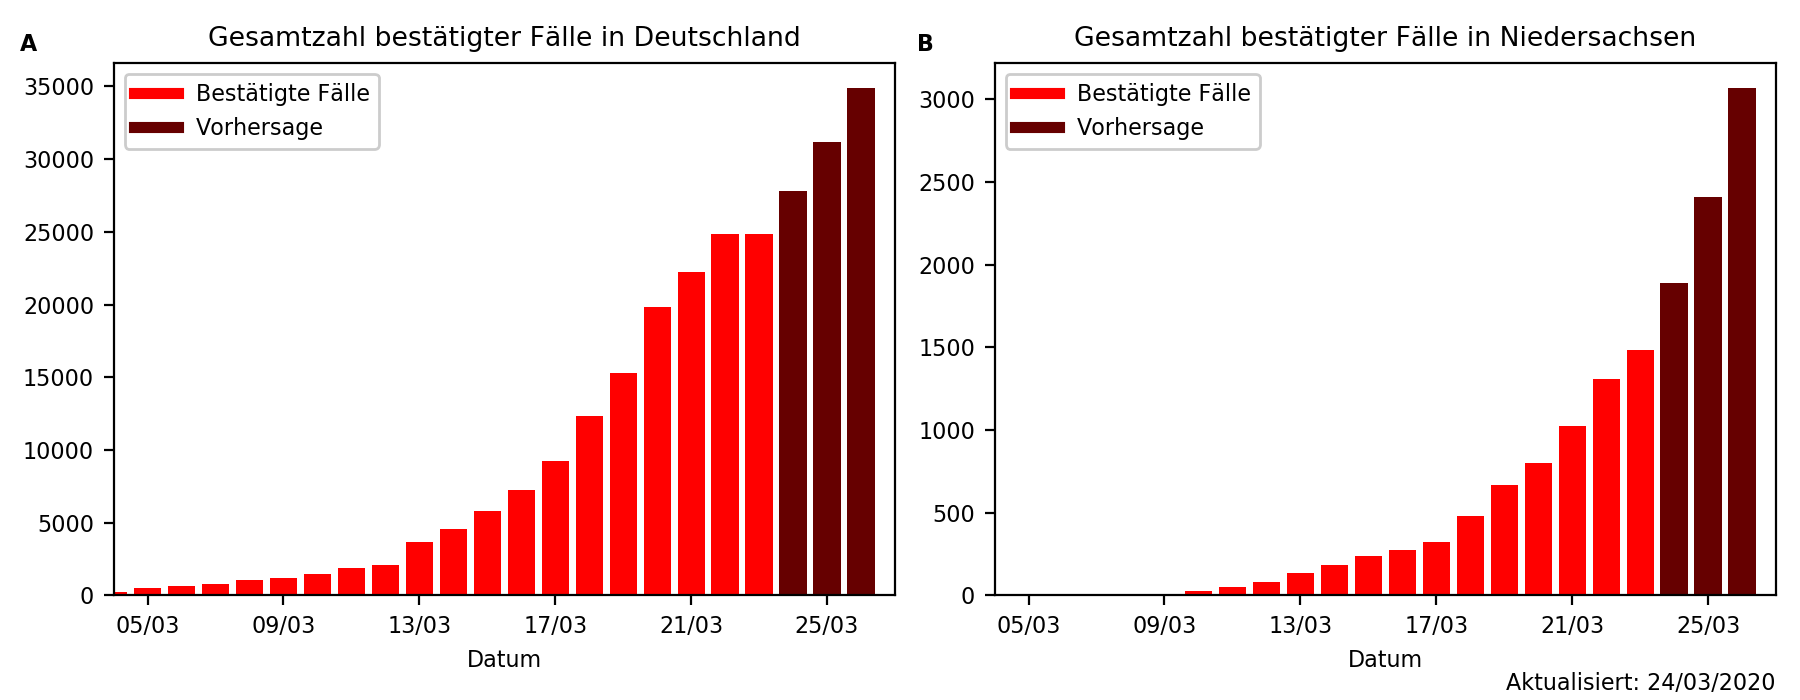
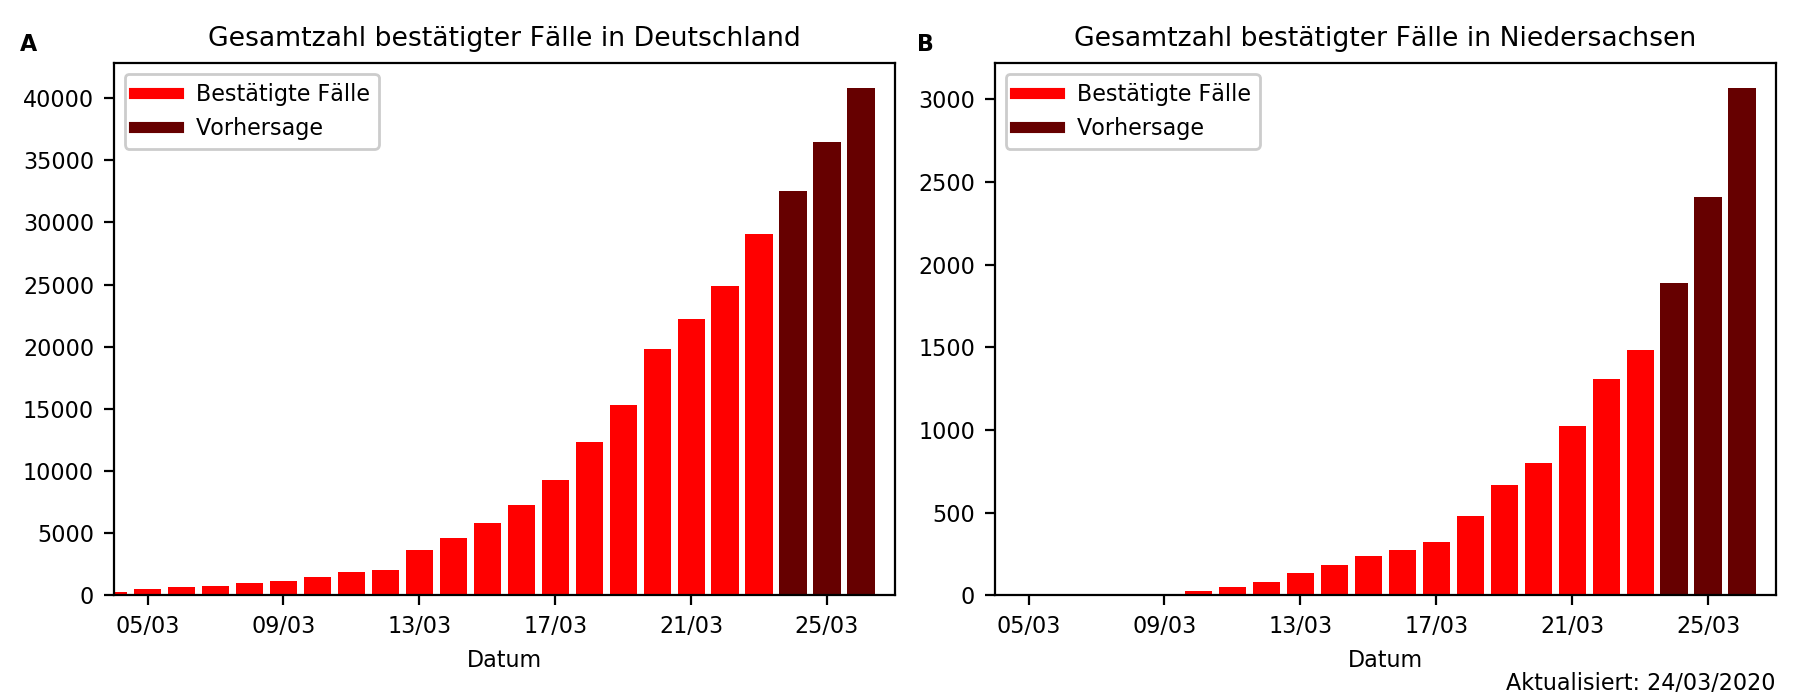
Update German data by hand

diff --git a/coronavirus.py b/coronavirus.py
@@ -469,7 +469,7 @@ def update_local(lang='all'):
 	ax_lowersaxony = fig.add_subplot(gs[1])
 
 	#Updates Germany data and plots things
-	save_csv(countries=['Germany'])
+	#save_csv(countries=['Germany'])
 	plot_prediction('data/johnhopkins/germany_confirmed.csv', datatype='confirmed', x_min='2020-03-04', labels=labels, ax=ax_germany, title=ylabel_de)
 	plot_prediction('data/lowersaxony_confirmed.csv', datatype='confirmed', x_min='2020-03-04', labels=labels, ax=ax_lowersaxony, title = ylabel_ls)
 
